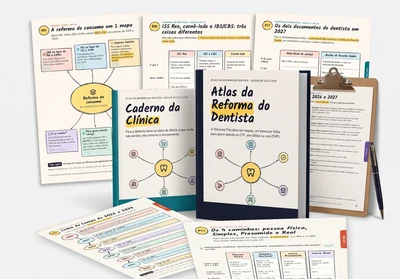
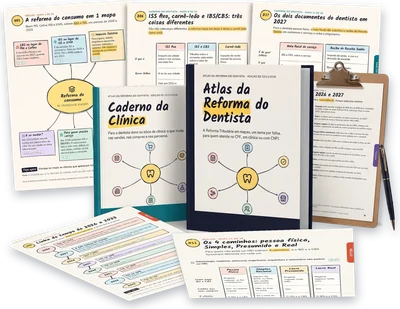
Hero grande com mockup sem fundo

diff --git a/index.html b/index.html
@@ -79,7 +79,9 @@ a{color:var(--azul)}
 .pilula-topo{display:inline-block;background:#f6c27a;color:#3a2a10;border:1px solid #b07a2c;border-radius:999px;padding:4px 12px;font-size:.72rem;font-weight:800;letter-spacing:.04em;text-transform:uppercase;margin-bottom:10px}
 .hero h1{font-size:1.55rem;font-weight:900;line-height:1.12;letter-spacing:-.01em;max-width:820px;margin:0 auto 12px;text-wrap:balance}
 .h-verm{color:var(--h-verm)}.h-graf{color:var(--h-graf)}.h-azul{color:var(--h-azul)}.h-verde{color:var(--h-verde)}
-.hero .mock{max-width:330px;margin:0 auto 12px;background:#fff;border-radius:18px;padding:8px;box-shadow:var(--sombra)}
+/* Mockup do hero grande e solto: sem fundo, borda, sombra ou padding; altura segue a proporção da imagem */
+.hero .mock{width:100%;max-width:none;margin:0 auto 12px}
+.hero .mock-hero{display:block;width:100%;height:auto;margin:0 auto}
 .hero .sub{font-size:.95rem;line-height:1.45;color:var(--tinta);max-width:640px;margin:0 auto 14px}
 .apoio-hero{font-size:.95rem;font-weight:700;color:var(--azul);max-width:600px;margin:22px auto 12px}
 .hero .lista{max-width:560px;margin:0 auto;font-size:.86rem;line-height:1.35}
@@ -335,7 +337,7 @@ button.folha{display:block;width:100%;padding:0;border:0;margin:0;cursor:zoom-in
   .barra{font-size:.82rem;padding:9px 10px}
   .hero{padding:28px 0 56px}
   .hero h1{font-size:2.6rem}
-  .hero .mock{max-width:420px}
+  .hero .mock{max-width:560px}
   .hero .sub{font-size:1.02rem}
   .vitrine-caixa{max-width:1000px;margin-top:30px;padding:0}
   .vitrine-caixa .vitrine{padding:26px 28px 16px;gap:24px}
@@ -366,7 +368,7 @@ button.folha{display:block;width:100%;padding:0;border:0;margin:0;cursor:zoom-in
 @media (min-width:1000px){
   h2{font-size:3rem}
   .hero h1{font-size:2.9rem;max-width:1000px}
-  .hero .mock{max-width:500px}
+  .hero .mock{max-width:660px}
   .reforco{display:flex;align-items:center;gap:16px;text-align:left;max-width:560px}
   .reforco .ck{flex:0 0 36px;margin:0}
   .ideal{grid-template-columns:repeat(3,1fr)}
@@ -422,8 +424,11 @@ button.folha{display:block;width:100%;padding:0;border:0;margin:0;cursor:zoom-in
     <span class="pilula-topo">Atlas da Reforma do Dentista</span>
     <!-- HEADLINE PROVISÓRIA: o usuário vai escolher uma nova. 4 cores por trecho: vermelho, grafite, azul, verde -->
     <h1><span class="h-verm">PF ou PJ?</span> <span class="h-graf">Vou pagar duas vezes?</span> <span class="h-azul">Como ficam o Receita&nbsp;Saúde</span> <span class="h-verde">e&nbsp;a&nbsp;nota?</span></h1>
+    <!-- 2. HERO, MOCKUP: solto sobre o fundo da seção, sem caixa (pedido de 24/11/2026, igual à referência Mapa Fácil).
+         Arquivos: hero-mockup-600.webp (celular) e hero-mockup.webp (1200 px, desktop), PNG/WebP com fundo transparente.
+         width/height = 1200x930, proporção dos arquivos entregues em 24/11/2026; se a proporção mudar, troque os dois números. -->
     <div class="mock">
-      <div class="cena cena-hero foto-real"><!-- IMG-HERO (800x558, quadro 330/230): capa e folhas reais do Atlas + celular com a versão de tela. Rodada 2, aprovada em 23/11/2026. Para trocar, substitua hero-mockup.webp e hero-mockup-400.webp --><img src="assets/img/hero-mockup.webp" srcset="assets/img/hero-mockup-400.webp 400w, assets/img/hero-mockup.webp 800w" sizes="(min-width:1024px) 484px, (min-width:720px) 404px, 314px" width="800" height="558" alt="A capa do Atlas, páginas dos mapas em leque e o celular com a versão de tela" fetchpriority="high" decoding="async"></div>
+      <img class="mock-hero" src="assets/img/hero-mockup-600.webp" srcset="assets/img/hero-mockup-600.webp 600w, assets/img/hero-mockup.webp 1200w" sizes="(min-width:1000px) 660px, (min-width:720px) 560px, calc(100vw - 36px)" width="1200" height="927" alt="A capa do Atlas, páginas dos mapas em leque e o celular com a versão de tela" fetchpriority="high" decoding="async">
     </div>
     <!-- EM PRODUÇÃO: as "três partes" dependem da Parte 1 e do checklist "Estou em dia?" (contrato v3) [[A PRODUZIR]] -->
     <p class="sub">Uma dúvida por mapa, em três partes: <b>como você está hoje</b>, <b>o que muda com a reforma</b> e <b>o que conferir sozinho</b>, com o sinal de quando vale procurar um contador. Uma parte dos mapas é só da odontologia.</p>
